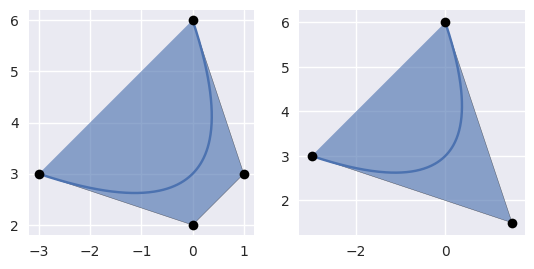
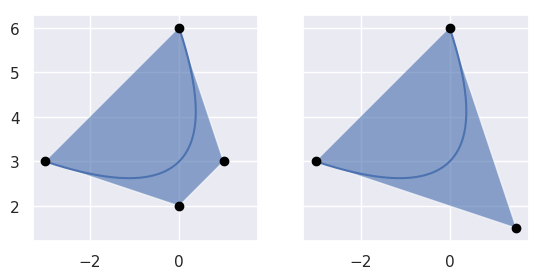
Fixing "bug" in `curve_reduce.png`.
The two subplots were meant to share axes, but the code I
had in place didn't accomplish this.

diff --git a/docs/make_images.py b/docs/make_images.py
@@ -1279,7 +1279,7 @@ def curve_reduce(curve, reduced):
     if NO_IMAGES:
         return
 
-    figure, (ax1, ax2) = plt.subplots(1, 2)
+    figure, (ax1, ax2) = plt.subplots(1, 2, sharex=True, sharey=True)
     curve.plot(256, ax=ax1)
     color = ax1.lines[-1].get_color()
     add_patch(ax1, curve._nodes, color)
@@ -1289,8 +1289,6 @@ def curve_reduce(curve, reduced):
     ax1.axis("scaled")
     ax2.axis("scaled")
     _plot_helpers.add_plot_boundary(ax2)
-    ax1.set_xlim(*ax1.get_xlim())
-    ax1.set_ylim(*ax1.get_ylim())
     save_image(figure, "curve_reduce.png")
 
 
